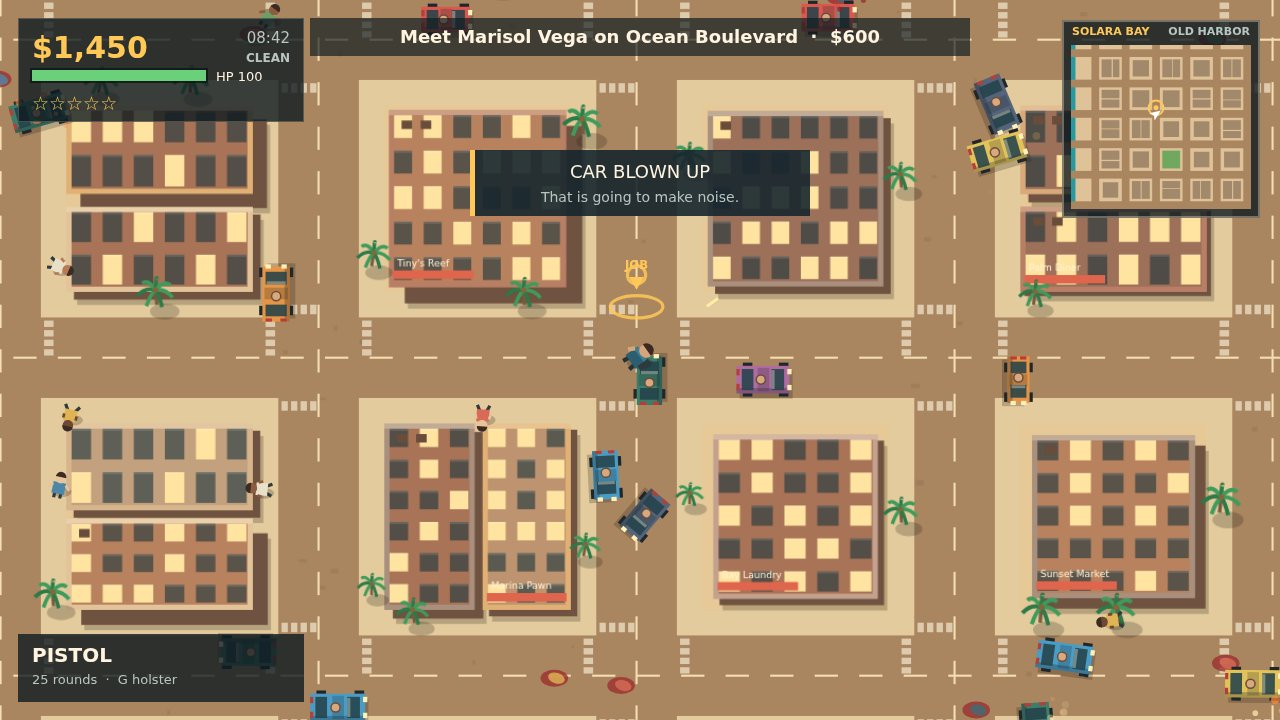
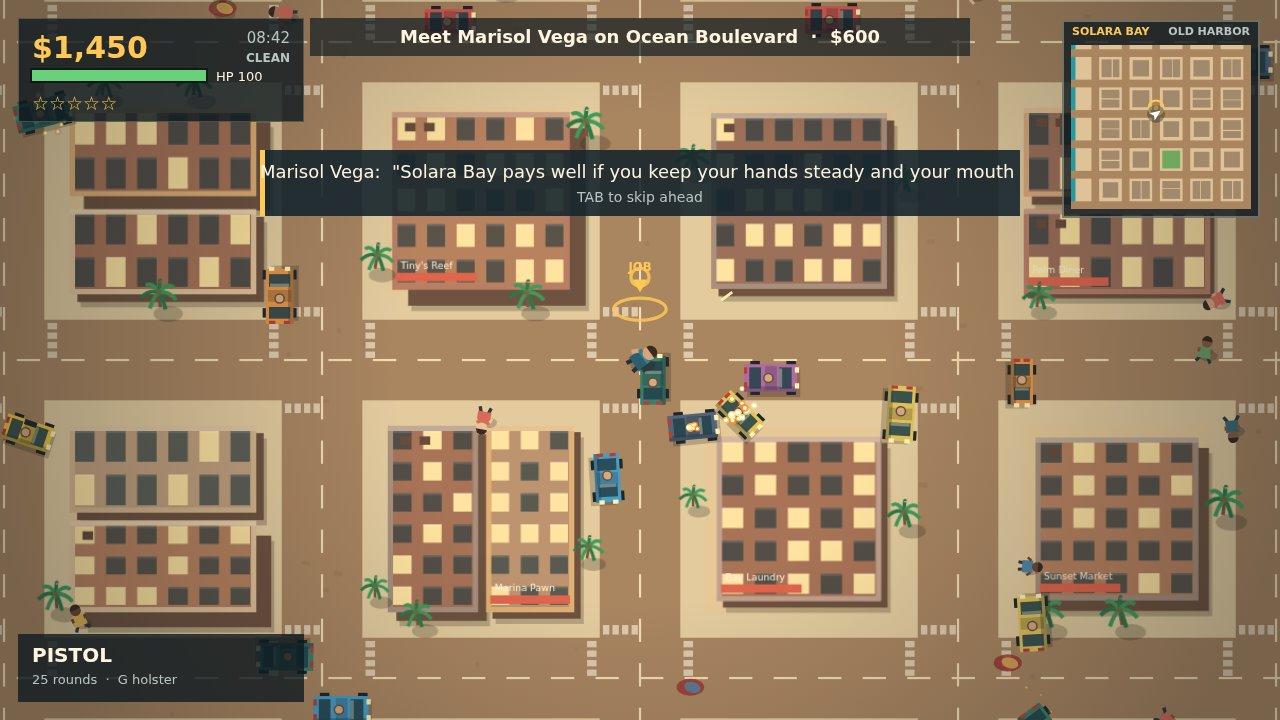
Polish pass + regenerated screenshots

diff --git a/game/src/screens.js b/game/src/screens.js
@@ -4,7 +4,7 @@
   'use strict';
   const F = SB.FIELD, P = SB.PALETTE, u = SB.u;
 
-  const SC = SB.screens = { hit: [], selected: 0, prev: 'start' };
+  const SC = SB.screens = { hit: [], selected: 0, hover: -1, prev: 'start' };
 
   function text(ctx, value, x, y, size, color, align, weight) {
     ctx.font = (weight || '') + ' ' + size + 'px ' + SB.FONT;
@@ -39,12 +39,12 @@
       const y = top + i * 54;
       const box = { x: F.width / 2 - 190, y: y - 32, w: 380, h: 46, action: list[i].action };
       SC.hit.push(box);
-      const on = i === SC.selected;
-      ctx.fillStyle = on ? 'rgba(255,200,87,0.94)' : 'rgba(18,32,39,0.78)';
+      const on = i === SC.selected, hovered = i === SC.hover && !on;
+      ctx.fillStyle = on ? 'rgba(255,200,87,0.94)' : hovered ? 'rgba(255,200,87,0.55)' : 'rgba(18,32,39,0.78)';
       ctx.fillRect(box.x, box.y, box.w, box.h);
-      ctx.strokeStyle = on ? '#fff0c9' : 'rgba(255,240,210,0.28)';
+      ctx.strokeStyle = on || hovered ? '#fff0c9' : 'rgba(255,240,210,0.28)';
       ctx.lineWidth = 1.5; ctx.strokeRect(box.x + 1, box.y + 1, box.w - 2, box.h - 2);
-      text(ctx, list[i].label, F.width / 2, y - 2, 21, on ? '#1a2529' : P.text, 'center', 'bold');
+      text(ctx, list[i].label, F.width / 2, y - 2, 21, on || hovered ? '#1a2529' : P.text, 'center', 'bold');
     }
   }
 
@@ -53,6 +53,7 @@
 
   SC.update = function (w, input) {
     const screen = w.screen;
+    SC.hover = -1;
     if (screen === 'busted' || screen === 'wasted') {
       if (input.consume('Enter') || input.consume('Space') || input.mouse.click) return 'respawn';
       return null;
@@ -62,16 +63,17 @@
       return null;
     }
     const list = items(w);
+    // One hit test per frame drives both the hover highlight and the click action.
+    for (let i = 0; i < SC.hit.length; i += 1) {
+      const box = SC.hit[i];
+      if (input.mouse.x >= box.x && input.mouse.x <= box.x + box.w &&
+        input.mouse.y >= box.y && input.mouse.y <= box.y + box.h) { SC.hover = i; break; }
+    }
     if (input.consume('ArrowUp') || input.consume('KeyW')) SC.selected = (SC.selected + list.length - 1) % list.length;
     if (input.consume('ArrowDown') || input.consume('KeyS')) SC.selected = (SC.selected + 1) % list.length;
-    if (input.mouse.click) {
-      for (const box of SC.hit) {
-        if (input.mouse.x >= box.x && input.mouse.x <= box.x + box.w &&
-          input.mouse.y >= box.y && input.mouse.y <= box.y + box.h) {
-          SC.selected = list.findIndex(function (item) { return item.action === box.action; });
-          return box.action;
-        }
-      }
+    if (input.mouse.click && SC.hover >= 0) {
+      SC.selected = SC.hover;
+      return list[SC.hover].action;
     }
     if (input.consume('Enter') || input.consume('Space')) return list[SC.selected].action;
     return null;

diff --git a/main.ts b/main.ts
@@ -2,14 +2,16 @@
 // The playable build is the plain static game/ folder: game/index.html loads classic <script>
 // files (no ES modules, no npm, no network), and everything is drawn to one 2D canvas. Seven
 // story jobs, traffic, pedestrians, wanted levels, WebAudio, a save game and four real renders
-// are included. This program only packages the entry: it copies game/, screenshots/ and the
-// vendored dossier library to MAKEFUN_OUTPUT_DIR (default /output) and writes dossier.json, the
-// canonical summary the judge reads, with buildDossier from vendor/makefun-game.ts.
+// are included. This program only packages the entry: it first refreshes the four deterministic
+// renders through shots.mjs when that local tooling is available, then copies game/, screenshots/
+// and the vendored dossier library to MAKEFUN_OUTPUT_DIR (default /output) and writes dossier.json,
+// the canonical summary the judge reads, with buildDossier from vendor/makefun-game.ts.
 //
 // Serve locally with `node serve.ts`, then open http://localhost:8080.
 // Outside the grader's container, MAKEFUN_OUTPUT_DIR stands in for /output:
 //   mkdir -p out && MAKEFUN_OUTPUT_DIR=out node main.ts
 
+import { spawnSync } from 'node:child_process';
 import { cpSync, existsSync, mkdirSync, rmSync, writeFileSync } from 'node:fs';
 import { join, resolve } from 'node:path';
 import { fileURLToPath } from 'node:url';
@@ -18,6 +20,16 @@ import { buildDossier } from './vendor/makefun-game.ts';
 const here = fileURLToPath(new URL('.', import.meta.url));
 const out = process.env.MAKEFUN_OUTPUT_DIR ?? '/output';
 if (resolve(out) === resolve(here)) throw new Error('MAKEFUN_OUTPUT_DIR must not be the source directory');
+
+// Refresh the renders when the recorder and its Chromium are installed. A machine without that
+// optional tooling still packages the checked-in screenshots, so the build never fails over it.
+if (process.env.MAKEFUN_SKIP_SHOTS !== '1' && existsSync(join(here, 'shots.mjs'))) {
+  const refresh = spawnSync(process.execPath, [join(here, 'shots.mjs')], {
+    cwd: here, encoding: 'utf8', timeout: 180_000
+  });
+  if (refresh.status === 0) process.stdout.write(refresh.stdout);
+  else console.warn(`screenshot refresh skipped: ${refresh.error ? refresh.error.message : (refresh.stderr || '').trim()}`);
+}
 
 // Clean only the packaged subdirectories, so a rebuild never leaves a stale screenshot behind.
 for (const name of ['game', 'screenshots', 'vendor']) rmSync(join(out, name), { recursive: true, force: true });

diff --git a/game/src/vehicles.js b/game/src/vehicles.js
@@ -13,14 +13,16 @@
 
   SB.makeCar = function (w, x, y, angle, type, color, opts) {
     const o = opts || {};
+    const style = STYLES[type] || STYLES.sedan;
+    const health = o.health == null ? C.health : o.health;
     const car = {
       x, y, angle, vx: 0, vy: 0, throttle: 0, steer: 0, handbrake: false,
       type: type || 'sedan', color: color || u.pick(w.rng, COLORS),
-      health: o.health || C.health, maxHealth: C.health, radius: C.radius,
+      // maxHealth follows an explicit starting health, so staged cars show the right damage bar.
+      health, maxHealth: health, radius: C.radius,
       ai: o.ai || null, isCop: !!o.cop, player: !!o.player, occupied: !!o.player,
       siren: !!o.cop, drift: false, smoke: 0, dead: false, flash: 0,
-      w: STYLES[type || 'sedan'].w, h: STYLES[type || 'sedan'].h,
-      speedFactor: STYLES[type || 'sedan'].speed
+      w: style.w, h: style.h, speedFactor: style.speed
     };
     w.cars.push(car);
     if (car.isCop) w.cops.push(car);
@@ -81,8 +83,10 @@
   };
 
   SB.stepVehicles = function (w, dt) {
-    const cars = w.cars;
+    // Snapshot the list: an exploding car removes itself mid-step, which would skip its neighbour.
+    const cars = w.cars.slice();
     for (const car of cars) {
+      if (car.dead) continue;
       const before = Math.hypot(car.vx, car.vy);
       const hit = w.city.resolveCircle(car.x, car.y, car.radius);
       if (hit.hit) {
@@ -106,10 +110,12 @@
       car.flash -= dt;
     }
     // Car vs car: shove apart, trade a little momentum and dent both.
-    for (let i = 0; i < w.cars.length; i += 1) {
-      const a = w.cars[i];
-      for (let j = i + 1; j < w.cars.length; j += 1) {
-        const b = w.cars[j];
+    for (let i = 0; i < cars.length; i += 1) {
+      const a = cars[i];
+      if (a.dead) continue;
+      for (let j = i + 1; j < cars.length; j += 1) {
+        const b = cars[j];
+        if (b.dead) continue;
         const dx = b.x - a.x, dy = b.y - a.y;
         const d = Math.hypot(dx, dy);
         const min = a.radius + b.radius;
@@ -134,7 +140,8 @@
       }
     }
     // Car vs ped.
-    for (const car of w.cars) {
+    for (const car of cars) {
+      if (car.dead) continue;
       const speed = Math.hypot(car.vx, car.vy);
       if (speed < 26) continue;
       for (const ped of w.peds) {

diff --git a/game/src/traffic.js b/game/src/traffic.js
@@ -35,7 +35,8 @@
       skin: u.pick(w.rng, SKINS),
       health: o.cop ? 100 : 36, alive: true, cop: !!o.cop,
       flee: 0, fearX: 0, fearY: 0, fire: 0, punch: 0,
-      walk: w.rng() * 6, corpse: 0, speed: o.cop ? 112 : u.rand(w.rng, 42, 70)
+      walk: w.rng() * 6, corpse: 0, speed: o.cop ? 112 : u.rand(w.rng, 42, 70),
+      scale: u.rand(w.rng, 0.92, 1.08) // a little height variety keeps the sidewalk crowd natural
     };
     w.peds.push(ped);
     return ped;
@@ -61,10 +62,9 @@
       [919, 90, 0, 'sedan'], [1220, 1500, Math.PI, 'taxi'], [90, 1219, Math.PI / 2, 'sedan'],
       [780, 281, 0, 'delivery'], [1081, 1080, Math.PI / 2, 'sports'], [420, 281, 0, 'sedan']
     ];
-    for (const p of parked) SB.makeCar(w, p[0], p[1], p[2], p[3], null, { health: C_HEALTH() });
+    for (const p of parked) SB.makeCar(w, p[0], p[1], p[2], p[3], null, { health: SB.CAR.health });
     for (let i = 0; i < T.peds; i += 1) SB.spawnPed(w);
   };
-  function C_HEALTH() { return SB.CAR.health; }
 
   function nextWaypoint(w, car) {
     const ai = car.ai;
@@ -177,7 +177,7 @@
   };
 
   SB.drawPed = function (ctx, ped, w) {
-    ctx.save(); ctx.translate(ped.x, ped.y);
+    ctx.save(); ctx.translate(ped.x, ped.y); ctx.scale(ped.scale, ped.scale);
     if (!ped.alive) {
       ctx.globalAlpha = u.clamp(ped.corpse / 6, 0, 0.8);
       ctx.fillStyle = '#9c3030';

diff --git a/game/src/save.js b/game/src/save.js
@@ -1,9 +1,9 @@
-// SOLARA BAY save system: a small, validated localStorage record of theplayer's life in the city.
+// SOLARA BAY save system: a small, validated localStorage record of the player's life in the city.
 // Everything is wrapped in try/catch so private browsing, disabled storage or a corrupt record
 // can never stop the game from running. save.js is loaded before the systems that call it.
 (function (SB) {
   'use strict';
-  const u = SB.u, P = SB.PLAYER, KEY = SB.SAVE_KEY;
+  const u = SB.u, P = SB.PLAYER, KEY = SB.SAVE_KEY, SAVE_VERSION = 1;
 
   function storage() {
     try { return window.localStorage; } catch (err) { return null; }
@@ -18,7 +18,7 @@
 
   SAVE.capture = function (w) {
     return {
-      version: 1,
+      version: SAVE_VERSION,
       seed: w.seed,
       x: Math.round(w.player.x), y: Math.round(w.player.y),
       money: Math.round(w.money),
@@ -52,7 +52,7 @@
     if (!store) return null;
     try {
       const data = JSON.parse(store.getItem(KEY) || 'null');
-      if (!data || typeof data !== 'object' || data.version !== 1) return null;
+      if (!data || typeof data !== 'object' || data.version !== SAVE_VERSION) return null;
       if (!Number.isFinite(Number(data.money))) return null;
       return {
         seed: number(data.seed, 0, 0, 4294967295),

diff --git a/game/src/render.js b/game/src/render.js
@@ -6,7 +6,7 @@
 
   SB.createRenderer = function (canvas) {
     const ctx = canvas.getContext('2d');
-    let dpr = 1, cache = null, cachedCity = null;
+    let dpr = 1, cache = null, cachedCity = null, vignette = null;
 
     function resize() {
       dpr = Math.min(2, window.devicePixelRatio || 1);
@@ -15,6 +15,11 @@
       const scale = Math.min(window.innerWidth / F.width, window.innerHeight / F.height);
       canvas.style.width = Math.round(F.width * scale) + 'px';
       canvas.style.height = Math.round(F.height * scale) + 'px';
+      // Screen-space, so the playfield edges settle into shadow without dimming the HUD.
+      vignette = ctx.createRadialGradient(F.width / 2, F.height / 2, F.height * 0.34,
+        F.width / 2, F.height / 2, F.height * 0.92);
+      vignette.addColorStop(0, 'rgba(10,18,24,0)');
+      vignette.addColorStop(1, 'rgba(10,18,24,0.30)');
     }
 
     function cityCache(city) {
@@ -111,6 +116,8 @@
       SB.effects.drawAir(ctx, c);
 
       ctx.setTransform(dpr, 0, 0, dpr, 0, 0);
+      ctx.fillStyle = vignette;
+      ctx.fillRect(0, 0, F.width, F.height);
       if (c.screen !== 'start') { SB.hud.draw(ctx, c); SB.minimap.draw(ctx, c); }
       SB.screens.draw(ctx, c);
     }

diff --git a/game/src/missions.js b/game/src/missions.js
@@ -88,6 +88,7 @@
     }
   ];
 
+  const FREE_ROAM = 'SOLARA BAY CLEARED  ·  Free roam  ·  TAB replays the chain';
   const PARK = { x: 662, y: 962, w: 176, h: 176 };
   const SPOTS = {
     marisol: { x: 600, y: 540 },
@@ -134,7 +135,7 @@
   JOBS.objective = function (w) {
     const m = w.mission;
     if (m.done) {
-      w.objective = 'SOLARA BAY CLEARED  ·  Free roam  ·  TAB replays the chain';
+      w.objective = FREE_ROAM;
       return;
     }
     const job = JOBS.list[m.index];
@@ -177,7 +178,7 @@
     JOBS.begin(w, true);
     if (done) {
       m.done = true;
-      w.objective = 'SOLARA BAY CLEARED  ·  Free roam  ·  TAB replays the chain';
+      w.objective = FREE_ROAM;
       SB.say(w, 'Chain complete — save restored', 'TAB to replay the story.', 3.6);
     }
   };
@@ -328,6 +329,7 @@
           m.index += 1;
           cleanupCars(w);
           JOBS.begin(w);
+          SB.save.write(w); // persist the new job, not the one that just paid out
         } else {
           m.done = true;
           SB.say(w, 'THE SOLARA BAY CHAIN IS CLOSED', 'Marisol: "We are even. For now."  ·  TAB to replay.', 5.5);

diff --git a/game/src/hud.js b/game/src/hud.js
@@ -23,11 +23,14 @@
       label(ctx, u.money(w.money), 32, 58, 30, P.gold, 'left', 'bold');
       label(ctx, u.clock(w.clock), 290, 43, 15, P.muted, 'right');
       label(ctx, w.wanted ? 'WANTED' : 'CLEAN', 290, 62, 12, w.wanted ? P.red : P.muted, 'right', 'bold');
-      bar(ctx, 32, 70, 174, 11, p.health / SB.PLAYER.maxHealth, p.health < 35 ? P.red : P.green);
+      const hpColor = p.health < 35 ? P.red : p.health < 65 ? P.gold : P.green;
+      bar(ctx, 32, 70, 174, 11, p.health / SB.PLAYER.maxHealth, hpColor);
       label(ctx, 'HP ' + Math.max(0, Math.ceil(p.health)), 216, 81, 13, P.text, 'left');
       let stars = '';
       for (let i = 0; i < 5; i += 1) stars += i < w.wanted ? '★' : '☆';
+      if (w.wanted) { ctx.shadowColor = P.gold; ctx.shadowBlur = 8; }
       label(ctx, stars, 32, 110, 19, P.gold, 'left');
+      ctx.shadowBlur = 0;
 
       // Objective strip.
       ctx.fillStyle = 'rgba(15,26,33,0.68)';

diff --git a/game/src/audio.js b/game/src/audio.js
@@ -2,7 +2,7 @@
 // no network, and nothing starts until the first key or click (browser autoplay rules).
 (function (SB) {
   'use strict';
-  const u = SB.u;
+  const u = SB.u, VOL = SB.AUDIO.masterVolume;
 
   SB.audio = {
     create: function () {
@@ -20,7 +20,7 @@
       try {
         const ctx = audio.ctx = new AC();
         const master = audio.master = ctx.createGain();
-        master.gain.value = audio.enabled ? 0.32 : 0;
+        master.gain.value = audio.enabled ? VOL : 0;
         master.connect(ctx.destination);
 
         const filter = audio.engineFilter = ctx.createBiquadFilter();
@@ -57,7 +57,7 @@
 
     toggle: function (audio) {
       audio.enabled = !audio.enabled;
-      if (audio.master) audio.master.gain.value = audio.enabled ? 0.32 : 0;
+      if (audio.master) audio.master.gain.value = audio.enabled ? VOL : 0;
       return audio.enabled;
     },
 

diff --git a/game/index.html b/game/index.html
@@ -3,12 +3,14 @@
 <head>
 <meta charset="utf-8">
 <meta name="viewport" content="width=device-width, initial-scale=1">
+<meta name="description" content="Solara Bay: a sun-soaked top-down open-world crime game with seven story jobs, traffic, cops and a day-night cycle.">
+<meta name="theme-color" content="#0b1118">
 <title>Solara Bay — open-world crime</title>
 <link rel="stylesheet" href="./style.css">
 </head>
 <body>
 <div id="stage">
-  <canvas id="game" width="1280" height="720" aria-label="Solara Bay, a top-down open-world crime game"></canvas>
+  <canvas id="game" width="1280" height="720" role="img" aria-label="Solara Bay, a top-down open-world crime game">Your browser needs canvas support to play Solara Bay.</canvas>
 </div>
 <p id="status" role="status" aria-live="polite"></p>
 <!-- Classic scripts in dependency order. No modules, no imports, no network. -->

diff --git a/serve.ts b/serve.ts
@@ -38,6 +38,11 @@ const MIME: Record<string, string> = {
 };
 
 createServer((request, response) => {
+  const method = request.method || 'GET';
+  if (method !== 'GET' && method !== 'HEAD') {
+    response.writeHead(405, { allow: 'GET, HEAD' }).end('method not allowed');
+    return;
+  }
   const url = new URL(request.url ?? '/', 'http://localhost');
   let pathname: string;
   try {
@@ -66,7 +71,9 @@ createServer((request, response) => {
     'content-length': size,
     'cache-control': 'no-store',
   });
-  createReadStream(file).pipe(response);
+  // HEAD requests get the same headers, but no file body.
+  if (method === 'HEAD') response.end();
+  else createReadStream(file).pipe(response);
 }).listen(port, '127.0.0.1', () => {
   console.log(`game/ is on http://localhost:${port}`);
 });

diff --git a/game/src/world.js b/game/src/world.js
@@ -73,6 +73,8 @@
     p.hotwire = 0; p.hotwireTarget = null; p.hurt = 0;
     w.wanted = 0; w.unseen = 0; w.arrest = 0; w.copTimer = 10;
     w.bullets.length = 0;
+    // A clean slate: old gunshot noise must not panic fresh pedestrians on the respawn street.
+    w.lastGunshot = -99; w.lastExplosion = -99;
     w.camera.x = p.x; w.camera.y = p.y;
     w.screen = 'play';
     SB.say(w, 'Back on the street.', 'Watch your step out there.', 3);
@@ -105,7 +107,7 @@
   };
 
   SB.addPickup = function (w, x, y, kind, value) {
-    if (w.pickups.length > 40) w.pickups.shift();
+    if (w.pickups.length >= 40) w.pickups.shift();
     w.pickups.push({ x, y, kind, value, life: 40, bob: w.rng() * 6 });
   };
 
